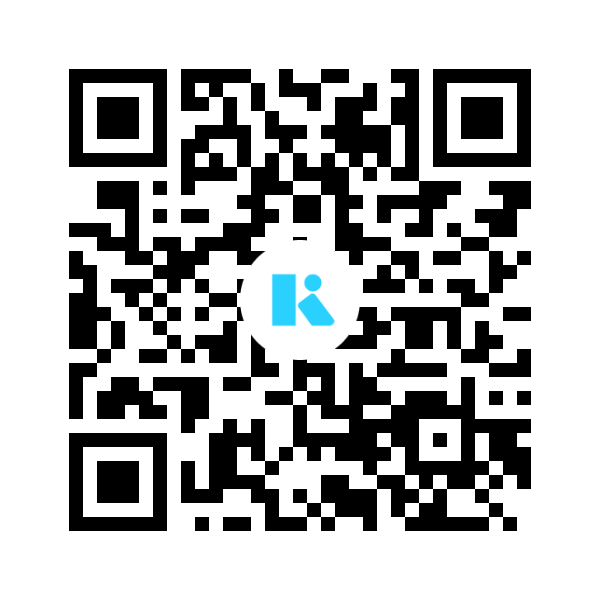
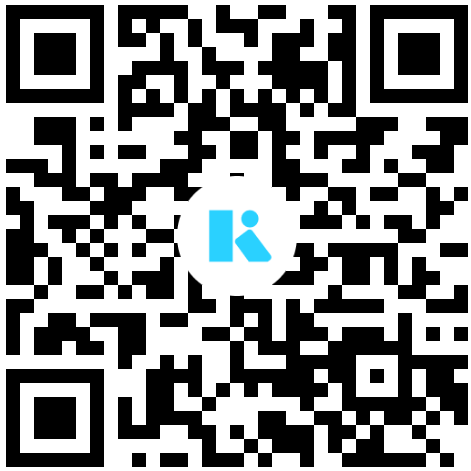
デザインを変更

diff --git a/index.html b/index.html
@@ -24,8 +24,8 @@
     <section class="section">
         <div class="container">
             <h1 class="title">価格表</h1>
-            <div id="app" class="columns is-mobile">
-                <div class="column">
+            <div id="app" class="is-mobile">
+                <div class="">
                     <table class="table is-fullwidth ">
                         <thead>
                             <tr>
@@ -42,12 +42,23 @@
                     </table>
                 </div>
 
-                <div class="column">
-                    <img src="img/kyash.png" alt="" srcset="" class="qr">
-                    <br>
-                    <img src="img/paypay.jpg" alt="" srcset="" class="qr">
-                    <br>
-                    PayPayで支払う場合は手数料+10円
+                <br>
+
+                <div class="columns is-mobile">
+                    <figure class="column" style="text-align: center;">
+                        <figcaption>現金/キャッシュレス決済</figcaption>
+                        <img src="img/kyash-logo.jpg" alt="Kyash" class="qr"><br>
+                        <img src="img//paypay-logo.jpg" alt=" Kyash" class="qr"><br>
+                        <img src="img/linepay-logo.png" alt="Kyash" class="qr">
+                    </figure>
+                    <figure class="column" style="text-align: center;">
+                        <img src="img/kyash.png" alt="Kyash" class="qr">
+                        <figcaption>Kyash</figcaption>
+                    </figure>
+                    <figure class="column" style="text-align: center;">
+                        <img src="img/paypay.jpg" alt="Kyash" class="qr">
+                        <figcaption>PayPay(手数料+10円)</figcaption>
+                    </figure>
                 </div>
             </div>
 

diff --git a/css/style.css b/css/style.css
@@ -1,3 +1,3 @@
 .qr{
-    width: 250px;
+    width: 200px;
 }
